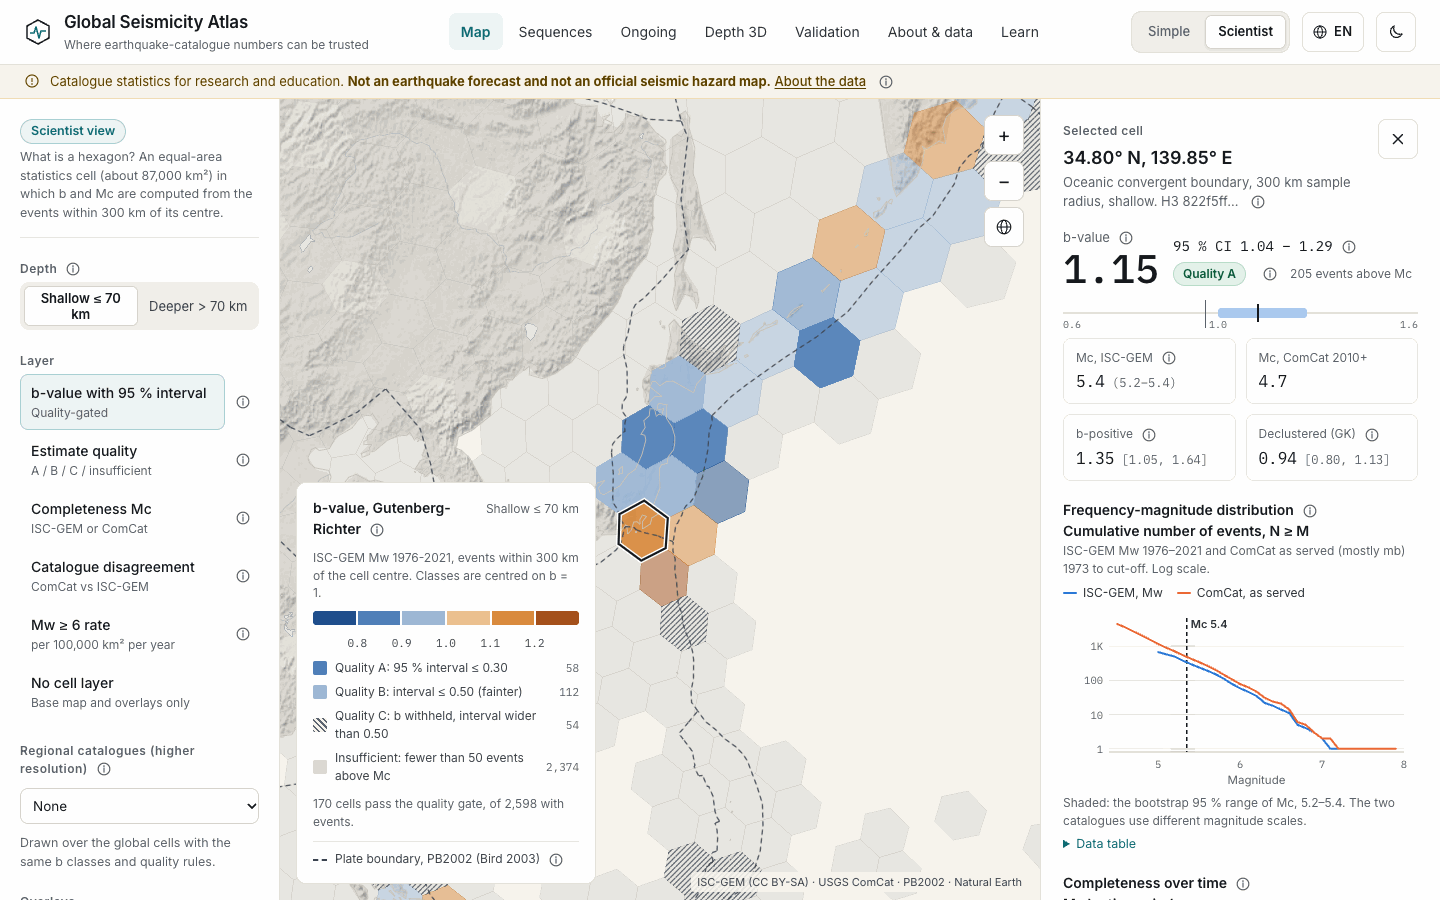
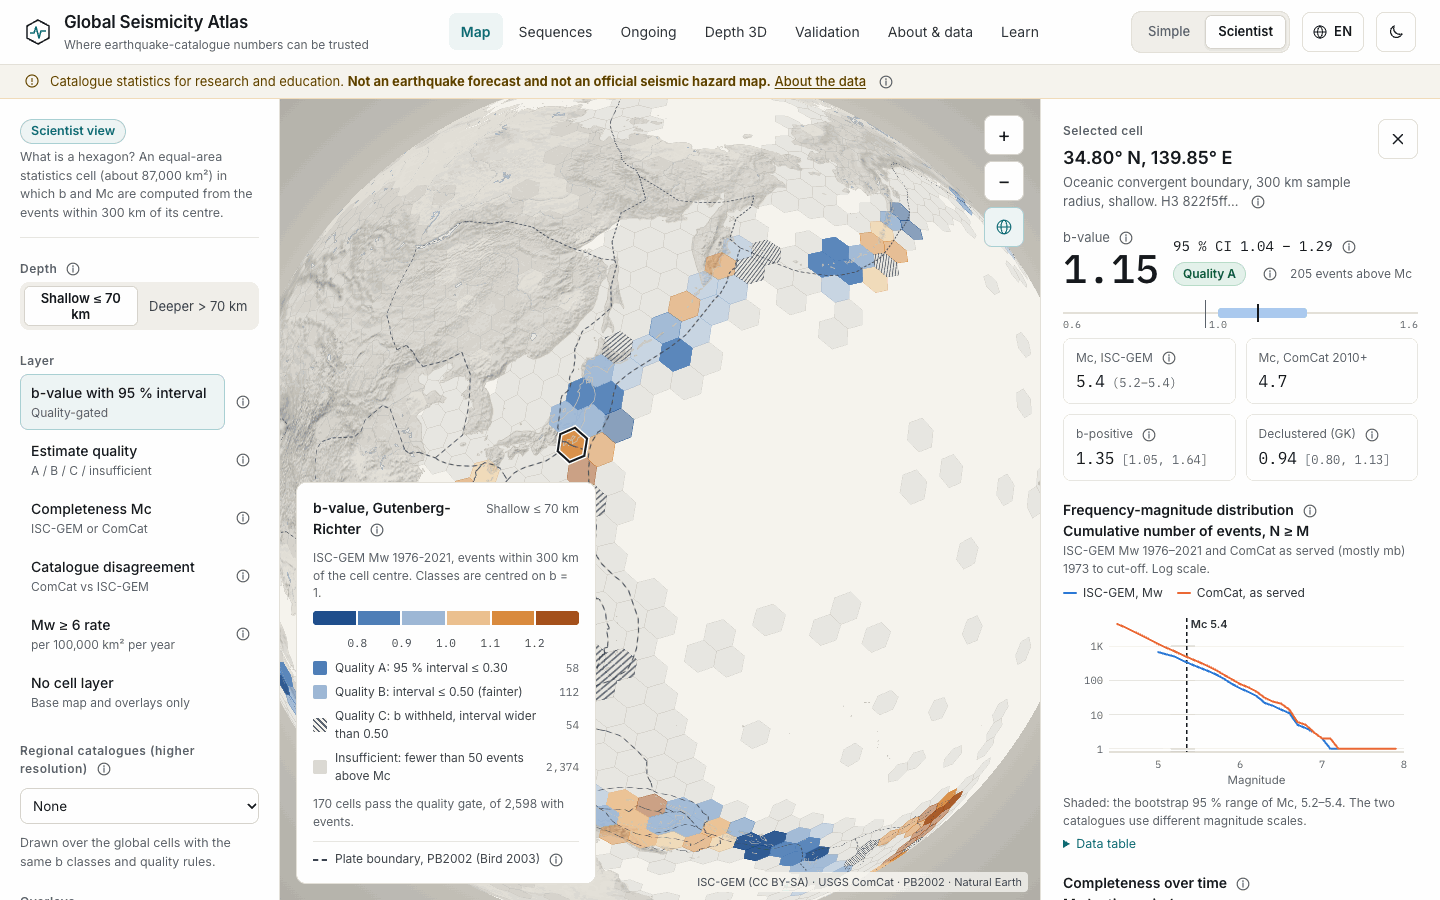
Docs for the v0.3.0 pass (globe decision, first-load numbers, search ranking, UX changes); refreshed site-v3 screenshots on the globe; time-zone longitude wraps past 180; phone legend ticks

diff --git a/site/js/map.js b/site/js/map.js
@@ -51,8 +51,8 @@ export function defaultView(globe = !!(C && C.state.g)) {
   const c = 1.5 * h;
   const R = (rho * rho + rho * Math.sqrt(rho * rho + c * c)) / c;
   const z = Math.log2((2 * Math.PI * R * Math.cos((lat * Math.PI) / 180)) / 512);
-  let lon = Math.round(-new Date().getTimezoneOffset() / 4);
-  if (!Number.isFinite(lon) || Math.abs(lon) > 180) lon = 150;
+  let lon = Math.round(-new Date().getTimezoneOffset() / 4); // UTC+13 gives 195, i.e. -165
+  lon = Number.isFinite(lon) ? ((((lon + 180) % 360) + 360) % 360) - 180 : 150;
   return { z: Math.max(0, +z.toFixed(2)), lat, lon };
 }
 

diff --git a/site/css/app.css b/site/css/app.css
@@ -518,7 +518,7 @@ details.method pre { white-space: pre-wrap; font-family: var(--mono); font-size:
   .legend .lg-rows { gap: 3px; font-size: 11px; }
   .legend .lg-title { font-size: 12px; }
   .legend .lg-bar div { height: 10px; }
-  .legend .lg-ticks { font-size: 9.5px; }
+  .legend .lg-ticks { font-size: 10.5px; }
   .attrib { font-size: 10px; right: 6px; bottom: 4px; }
   .panel {
     position: absolute; z-index: 26; left: 0; right: 0; bottom: 0; width: auto; max-height: 64%; border: 0;

diff --git a/tests/e2e/tools/site_v3_shots.py b/tests/e2e/tools/site_v3_shots.py
@@ -32,11 +32,13 @@ def place(name, country):
     raise LookupError(name)
 
 
-# name: (hash, viewport, scheme, stored mode, actions)
+# name: (hash, viewport, scheme, stored mode, actions). The browser time zone is Asia/Tokyo, so the first globe view
+# (turned to the visitor's time-zone longitude) shows the western Pacific.
 SHOTS = {
-    "site-v3-simple-light": ("#v=map&mode=simple&at=1.75/22/120&lang=en", (1440, 900), "light", None, "search"),
+    "site-v3-simple-light": ("#v=map&mode=simple&lang=en", (1440, 900), "light", None, "search"),
+    "site-v3-phone-globe-light": ("#v=map&mode=simple&lang=en", (390, 844), "light", None, None),
     "site-v3-phone-dark-card": (f"#v=map&mode=simple&p={place('Tokyo', 'Japan')}&lang=en", (390, 844), "dark", None, None),
-    "site-v3-expert": ("#v=map&l=b&d=sh&c=822f5ffffffffff&at=3.4/36.5/141&lang=en", (1440, 900), "light", "pro", None),
+    "site-v3-expert": ("#v=map&l=b&d=sh&c=822f5ffffffffff&at=2.7/30/150&lang=en", (1440, 900), "light", "pro", None),
 }
 
 
@@ -58,7 +60,8 @@ def main():
         for name, (hash_, (w, h), scheme, mode, action) in SHOTS.items():
             if a.only and a.only != name:
                 continue
-            ctx = b.new_context(viewport={"width": w, "height": h}, color_scheme=scheme, device_scale_factor=1)
+            ctx = b.new_context(viewport={"width": w, "height": h}, color_scheme=scheme, device_scale_factor=1,
+                                timezone_id="Asia/Tokyo")
             ctx.add_init_script("window.__gsaTestHook = (m) => { window.__map = m; };")
             ctx.add_init_script("try { localStorage.setItem('gsa-tour', '1'); } catch (e) {}")
             if mode:

diff --git a/docs/ux-notes.md b/docs/ux-notes.md
@@ -151,7 +151,9 @@ world seismicity maps, EMSC's description of LastQuake and the papers on it, GEM
 - **Place search.** Natural Earth 1:10m Populated Places v5.1.2 (public domain), 7,342 places, shipped as
   `site/data/places.json` (585 KB, 242 KB gzip), loaded on the first focus of the search box or the first map click.
   Matching folds case and accents (`norm()` in `places.js`), also on the Russian and Spanish names and the
-  alternative names of Natural Earth; results are ranked exact, prefix, word prefix, substring, then by population.
+  alternative names of Natural Earth; results are ranked by match quality (a name starts with the query, a
+  later word starts with it, it contains it), then by population (POP_MAX), an exact name counting ten times (v0.3.0,
+  see below).
   Natural Earth has no Uzbek names, so none are shown or invented. Keyboard: arrows, Enter, Escape; IME composition
   is respected.
 - **Place card.** Counts of M6+ and M7+ events within 100 km or 300 km (a switch; 300 km is the atlas's sample
@@ -176,3 +178,76 @@ world seismicity maps, EMSC's description of LastQuake and the papers on it, GEM
   Enter rule; 44 px targets on phones; visible focus; no horizontal scroll at 360 px (tested).
 - The one bold element is the headline question over the map; everything else stays quiet (one card, one legend, the
   rest is map). No numbered eyebrows except the tour's "Tip 1 of 3", which is a real sequence.
+
+## v0.3.0 release pass (2026-11-14)
+
+### Globe by default
+
+- **Decision.** Both modes open on the globe (MapLibre 5.24 `projection: globe`). The globe button switches to the
+  flat map and back; the choice is stored as `gsa-proj` (`globe` or `flat`) when the visitor presses the button, and
+  every URL carries `g=1` or `g=0`, like `mode=` and `lang=`. Rule (`parseHash()` in `app.js`): the link's `g`; else
+  the stored choice; else the globe. So a link made before v0.3 (which had `g=1` only when someone chose the globe)
+  opens on the globe for a new visitor and in the visitor's own choice otherwise; `g=0` always gives the flat map. A
+  navigation link without `g` (`#v=about`) keeps the projection in use.
+- **First view.** The whole globe in sight, centred at 20° N on the visitor's longitude, taken from the browser's
+  time-zone offset (`-getTimezoneOffset() / 4` degrees; no location is asked for or sent): Tashkent sees the
+  Himalaya, Indonesia and Japan; Los Angeles the Americas and the Pacific; Europe the Mediterranean. No tilt (the 3D
+  terrain switch keeps its own pitch). The zoom solves the visible-disc radius from MapLibre's globe geometry
+  (`defaultView()` in `map.js`): 82 % of the shorter side of the map on desktop, 92 % on phones. The flat map keeps the
+  v0.2 first view (whole world, Pacific in the centre).
+- **Layers checked on the globe** (screenshots at 1440 and 390 px, light and dark, plus `tests/e2e/test_v03.py`):
+  dots and density heatmap, the place pin and radius, plate boundaries, coastline, land, relief tiles, lakes and
+  rivers, Scientist cells with hatching, cells across the antimeridian (Fiji and Tonga, both sides of 180°), polar
+  cells, regional layers and 3D terrain (existing tests in `test_features.py` and `test_terrain3d.py`). None needed a
+  globe-specific fix. One MapLibre detail: on the globe, `queryRenderedFeatures()` without a point or box returns
+  features from the wrong side of the globe; the app only queries at points (hover, click), which work.
+- **Phones.** At 390 px the globe renders in headless Chromium with the same layers and no errors, and the first
+  load is not slower than the flat map (below). Frame rate on real phones was not measured; no flat fallback was
+  added because nothing showed the globe broken.
+- **A flat-map camera detail.** The flat map leaves the style's projection unset, and the projection is only changed
+  when it differs: an explicit Mercator projection made MapLibre move the camera when the map was hidden and shown
+  again (a Learn page in between), which wrote a position into the URL.
+
+### First load of the Simple view
+
+The Simple view used `cells.geojson` (1.48 MB) only for the place card's recording rating. The card now reads
+`site/data/rating.json` (built by `scripts/build_rating.py` from `cells.geojson` and the manifest's global shallow Mc,
+238 KB, 87 KB gzip), and only when the first place card opens; `cells.geojson` loads when the Scientist view or Depth
+3D is opened (with the map's loading line and a "Try again" button on failure). The rating lookup keeps each cell's
+hexagon (the published coordinates have two decimals, stored as integers), so `cellAtPoint()` finds exactly the same
+cell as before: the browser test compares all 2,598 cells and 5,598 points (every cell centre and 3,000 random
+points), with no difference.
+
+Measured with Playwright and Chrome for Testing, cold cache (a new browser context per run), the default Simple view
+at 1440 × 900, served locally with gzip for text files (as GitHub Pages does) and throttled to 10 Mbit/s with 40 ms
+latency; "dots" is the time until the legend count is shown (M6 events drawn):
+
+| | Requests | Bytes (decoded) | Bytes (gzip) | Map ready | Dots drawn |
+|---|---|---|---|---|---|
+| Before (main 95b365c, flat map) | 79 | 5,221,415 | 1,533,914 | 1.90 s | 2.12 s |
+| After, flat map (`g=0`) | 78 | 3,752,564 | 1,341,391 | 1.40 s | 1.94 s |
+| After, globe (default) | 68 | 3,626,410 | 1,215,228 | 1.40 s | 1.84 s |
+
+Medians of three runs each (the runs differed by at most 0.03 s). Unthrottled on localhost the times are 0.32 s / 0.62 s
+before and 0.27 s / 0.56 s after. The globe needs fewer relief tiles at its first zoom.
+
+### Search ranking
+
+Match quality first (a name of the place starts with the query; a later word starts with it; it contains it), then
+population (`p`, Natural Earth POP_MAX, already in `places.json`), with an exact name counting ten times its
+population; an exact match that falls outside the eight results takes the last places. "San" before: San (Mali,
+41,386 people) first, then Santiago, St. Petersburg, San Francisco, San Diego, San Juan, St. Louis, Santo Domingo.
+After: Santiago, St. Petersburg, San Francisco, San Diego, San Juan, St. Louis, Santo Domingo, San (Mali). Paris,
+Kiev/Киев, zurich, Ташкент and accent-free queries return the same first result as before.
+
+### Interface changes in this pass
+
+- The coastline gets wider when zoomed in (0.8 px at zoom 3, 1.8 px at zoom 6, was 1.1 px): around a searched place
+  the dots and shading hid it.
+- The globe button has a tooltip ("Globe or flat map") and starts pressed; the last tip of the first-visit tour says
+  that dragging turns the globe and that the button switches to a flat map (four languages).
+- Visible loading and error states: the place list shows "Loading the list of places…" while the gazetteer loads on a
+  slow connection and its error message if it fails (before, both went to a screen-reader-only line); the place card
+  shows an error with "Try again" if `rating.json` fails; the Scientist switch shows the loading line while the cells
+  load and an error with "Try again" if they fail.
+- b-value legend ticks on phones 9.5 px → 10.5 px.

diff --git a/docs/known-issues.md b/docs/known-issues.md
@@ -75,7 +75,7 @@ Status on 2026-11-13 (branch with the browser suite, comparison, CSV, regional l
   names match when Natural Earth has them. Some Natural Earth alternative names are truncated in the source (for
   example "Ciudad de M"); they are used for matching only and never shown.
 - **Counting radius.** Place counts use great-circle distance on a sphere of radius 6,371 km to the epicentre. The
-  100 km and 300 km circles are drawn the same way; at high latitudes they look stretched on the Mercator map.
+  100 km and 300 km circles are drawn the same way; at high latitudes they look stretched on the flat (Mercator) map.
 - **Magnitudes in the place card.** The card counts the events of `events_m6.json`, which mixes ISC-GEM Mw and
   ComCat magnitude types (the map tooltip and the event popup name the type). It always counts M6+ and M7+, whatever
   the magnitude control shows. The years follow the Years control.
@@ -91,6 +91,18 @@ Status on 2026-11-13 (branch with the browser suite, comparison, CSV, regional l
   default of the test fixture.
 - **Not tested.** Screen readers (VoiceOver, NVDA, TalkBack) on the search combobox and the bottom sheet; a swipe to
   resize the bottom sheet (it scrolls, it does not drag); real phones; right-to-left languages (none offered).
+
+## Globe and first load (v0.3.0)
+
+- **Starting longitude.** The globe turns to the longitude of the browser's time-zone offset, not the visitor's
+  position: a visitor in western China (UTC+8) sees eastern China, and a browser set to UTC shows Africa and Europe.
+- **Globe size.** The first zoom uses MapLibre 5.24's globe geometry (camera at 1.5 × the map height); a later MapLibre
+  that changes the field of view would change the size of the first globe, not its correctness.
+- **Phones.** The globe was checked in headless Chromium at 390 px (layers, size, no errors); frame rate on real phones
+  was not measured.
+- **`rating.json` follows `cells.geojson`.** It is rebuilt by `scripts/build_rating.py` (in `run_all.sh` after
+  `site_layers.py`); `tests/test_rating.py` fails when it is stale.
+- **Uzbek place names.** Still none (Natural Earth has none): "Toshkent" finds nothing, "Tashkent" works.
 
 ## Relief, 3D terrain and the Depth 3D view
 

diff --git a/README.md b/README.md
@@ -200,11 +200,13 @@ cd site && python3 -m http.server 8000   # then open http://localhost:8000/
   with their intervals). three.js 0.170.0 (MIT) is vendored and loads only in that view. Sources, licences and
   sizes: [docs/basemap.md](docs/basemap.md).
 
-![Simple view: earthquakes, density shading and place search](docs/img/site-v3-simple-light.png)
+![Simple view on the globe: earthquakes, density shading and place search](docs/img/site-v3-simple-light.png)
+
+![Simple view on a phone: the globe on first visit](docs/img/site-v3-phone-globe-light.png)
 
 ![Simple view on a phone, dark theme, with a place card](docs/img/site-v3-phone-dark-card.png)
 
-![Scientist view with a selected cell](docs/img/site-v3-expert.png)
+![Scientist view on the globe with a selected cell](docs/img/site-v3-expert.png)
 
 ![Depth 3D view, Japan with Slab2](docs/img/site-3d-light.png)
 

diff --git a/docs/learn.md b/docs/learn.md
@@ -178,6 +178,11 @@ inputs under the word ("quality B, Mc 5.2, ISC-GEM and ComCat agree"), and its (
 table. The rating describes the global catalogue at a few hundred kilometres, not local networks, and is not a hazard
 or risk estimate.
 
+Since v0.3.0 the place card reads the rating from `site/data/rating.json`, which `scripts/build_rating.py` computes
+from `cells.geojson` with this rule and the manifest's global shallow Mc, together with the three inputs, the cell's
+area and its hexagon, so the Simple view does not load `cells.geojson`. `tests/test_rating.py` checks that the file
+is up to date and the rule branch by branch; `tests/e2e/test_v03.py` checks every cell against `recordingRating()`.
+
 ### Map controls (`index.html`, placed by `info-rail.js`)
 
 | UI element | Selector / i18n key | Concept id |
